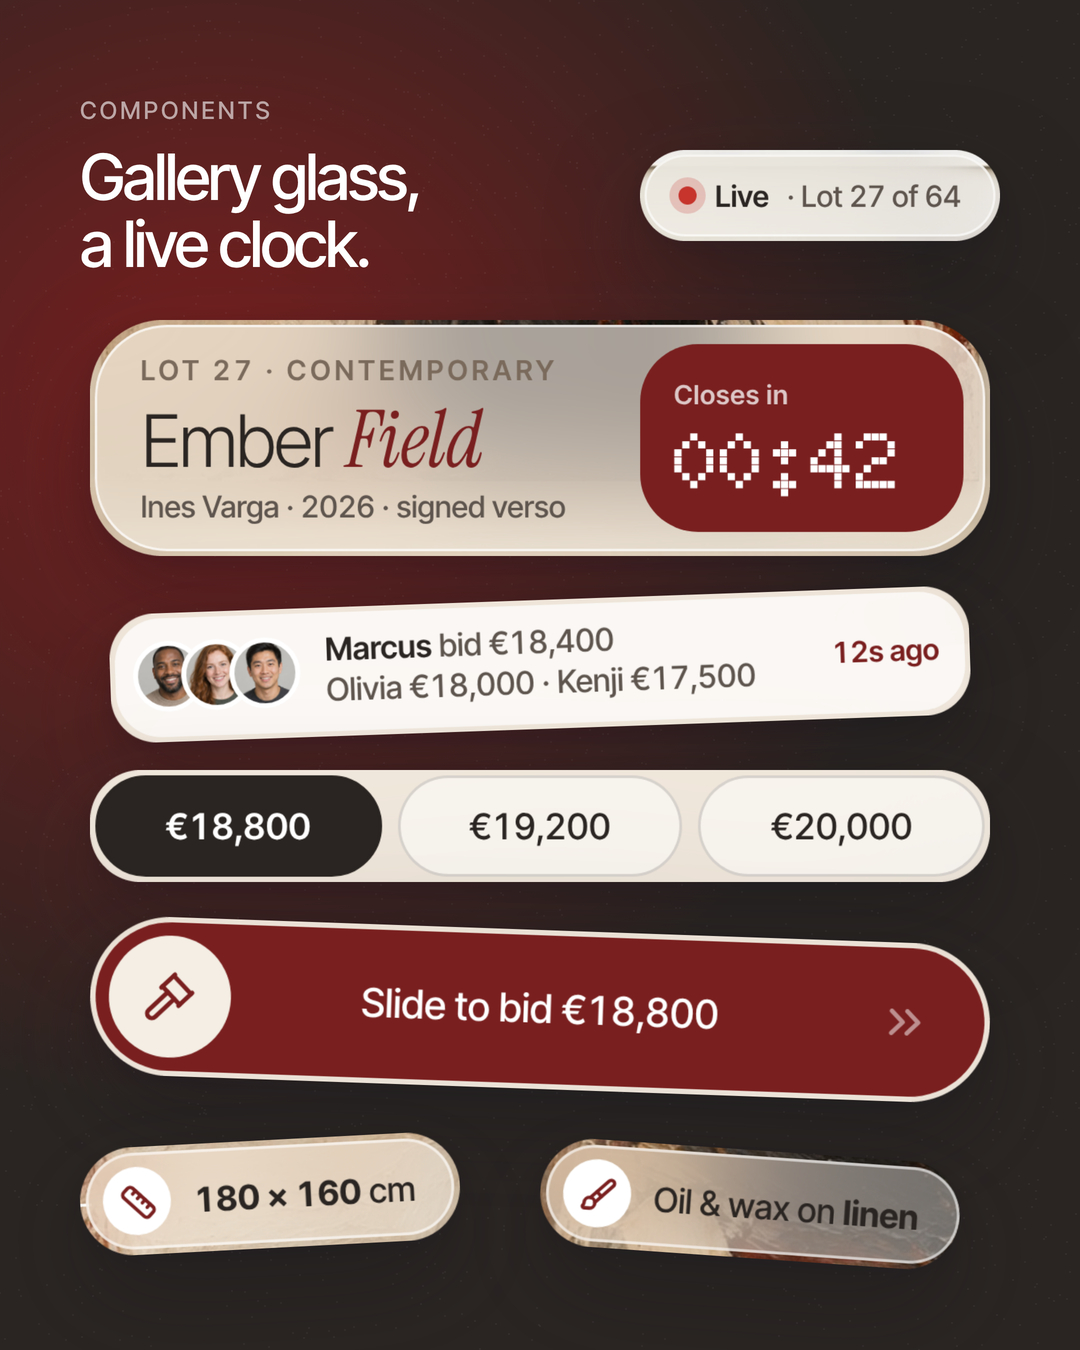
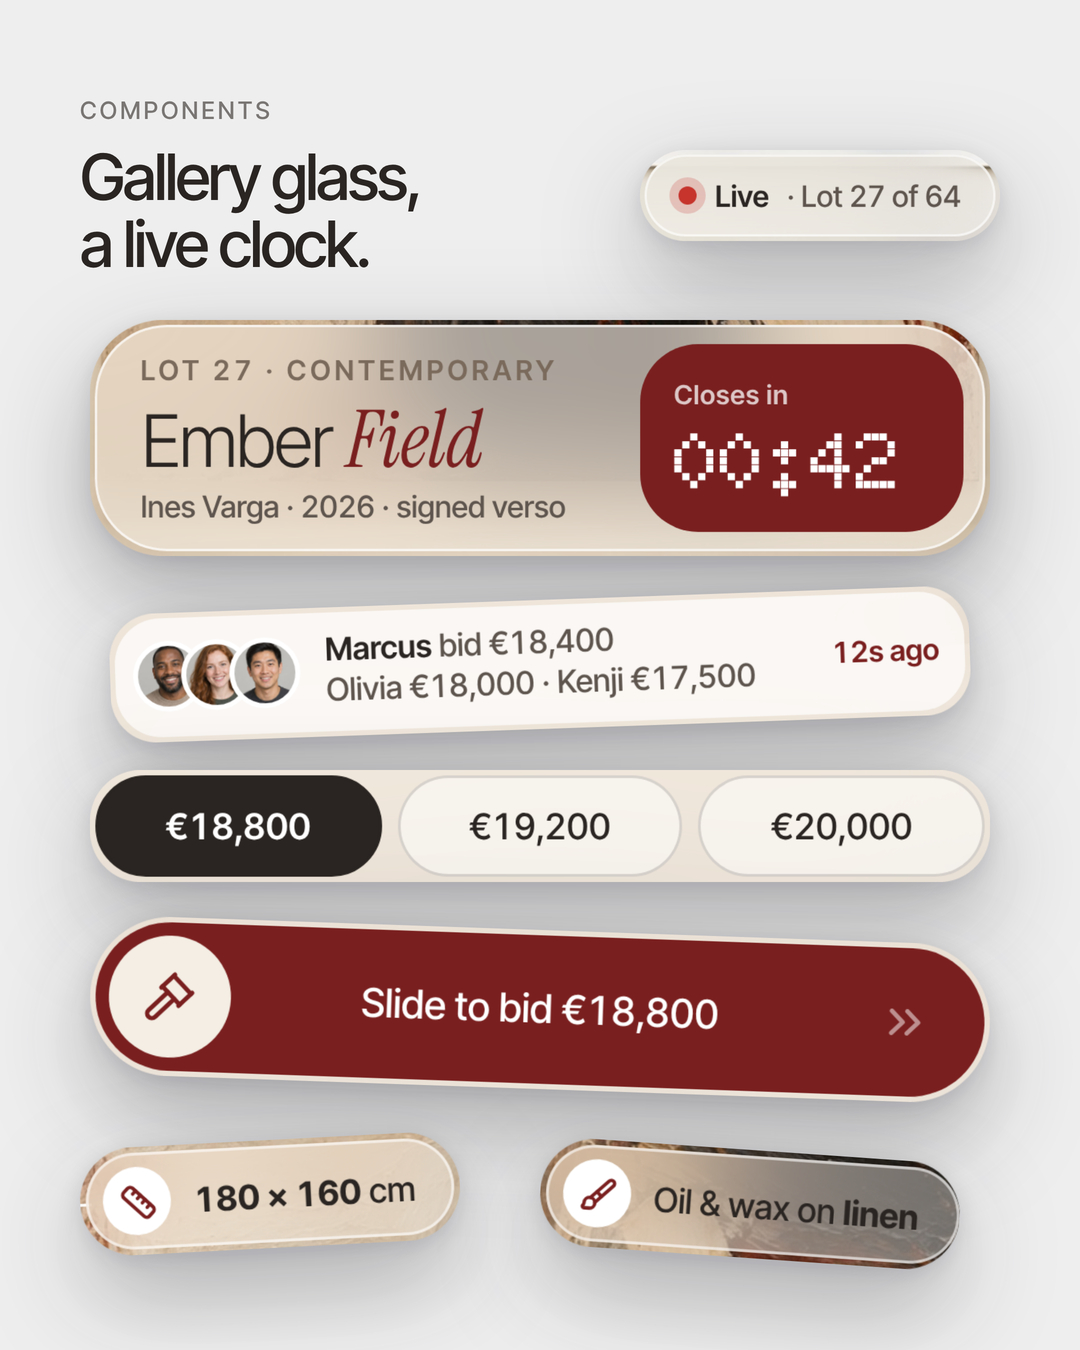
App carousels: same #EEEEEE background on every slide, CTA last; schedule Kova, Ridge, Aural, Lot & Light
Claude-Session: https://claude.ai/code/session_01Rx7czx1i9NBjwGFiktCpfD

diff --git a/PLAYBOOK.md b/PLAYBOOK.md
@@ -203,6 +203,7 @@ Nixtio, awsmd, Conceptzilla, vlad_g, zeeroocanvas, rondesignlab). **Open them be
 - Approved direction sample: `designs/2026-11-21-pm-mosse-skincare-app` (v1 product detail, v2 skin scan, v3 evening ritual).
 - **App slots always need the owner's approval:** a run that designs an app sets it `ready-pending-approval` and never posts it until the owner approves.
 - Mossé is one app shown over 3 weeks (owner, 2026-11-20): v1 on 2026-11-21 pm, v2 on 2026-11-23 am, v3 on 2026-11-26 am (owner, 2026-11-21: every ~2 days, mixed with other new apps). Halo, Verdant, Rally are unscheduled (designs/unscheduled-*).
+- **Carousel backgrounds (owner, 2026-11-21):** every slide uses the same flat `#EEEEEE` background as slide 1 (set bg2/bg4/paper to #EEEEEE, flat:true, dark ink), and the fixed CTA slide is always last.
 - Carousel format: the Daybook 6-slide format (`tools/app_carousel_v3.py` / `app_carousel_v4.py` with glass/gradient settings, not flat).
 
 ## Brand chrome + mockup shadow (approved by the owner 2026-11-14 — on every post from 2026-11-15)
